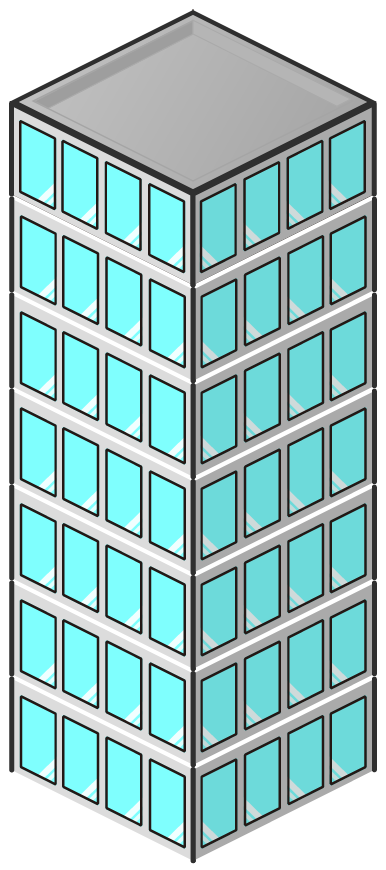
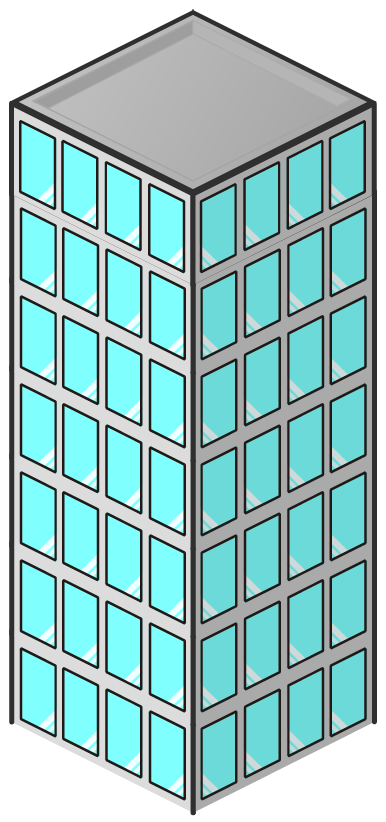
roadmap: フロア継ぎ目の縮小表示時の隙間を修正(積み上げピッチ-8px)
ユーザー指摘：フル解像度では隙間なく見えるのに、実機の縮小表示サイズだと
継ぎ目に白っぽい線が出る。原因を検証：
- フル解像度のalphaチャンネルには実際の透過ギャップは存在しない
  （境界のstroke含め完全不透明であることをスクリプトで確認）
- 870px高の画像を実表示サイズ相当(幅200px)までLANCZOS縮小してみたところ、
  継ぎ目の濃い輪郭線が縮小補間で周囲の明るい色と混ざって薄まり、
  白い隙間線のように見える現象を再現できた

対策：積み上げピッチをflat band実測値からさらに8px多く重ねる
(plain 96→88, brick 95→87, bigwindow 96→88)。縮小シミュレーションで
3種とも継ぎ目が視認できなくなることを確認。フル解像度でも窓が
潰れる等の歪みは見られない。

diff --git a/src/components/roadmap/roadmap-map.tsx b/src/components/roadmap/roadmap-map.tsx
@@ -57,9 +57,15 @@ const DIAMOND_POINTS = "50,0 100,25 50,50 0,25";
 // 2026-09-18更新：旧コンクリ仮素材(building_stack2_concrete_test.png)から、
 // 本番のビル/レンガ/窓デカ3種に仮差し替え。中段(body)をN-1枚+最上段(roof)1枚を
 // Pillowでスクリプト合成したスタック画像（パーツリストAの「フロア数の上限は6〜8階」
-// を試すため、窓デカ型だけ7階まで積んでみている）。積み上げpiddチ(floor間の垂直
+// を試すため、窓デカ型だけ7階まで積んでみている）。積み上げピッチ(floor間の垂直
 // オフセット)は各body画像の「幅が最大になっている帯(flat band)」の高さを
-// alphaチャンネルから実測して使用（3種とも95〜96pxでほぼ共通）。
+// alphaチャンネルから実測（3種とも95〜96px）した上で、さらに-8pxのマージンを
+// 引いている。理由：実測値どおりのピッチだと、フル解像度では隙間なく繋がって
+// 見えるのに、実際の表示サイズまで縮小(next/imageが行う一般的なLANCZOS等の
+// 縮小補間)すると、継ぎ目の濃い輪郭線が縮小時に周囲の明るい色と混ざって薄まり、
+// 白っぽい隙間線のように見えてしまう不具合をユーザーが実機確認で発見。
+// 縮小後も隙間に見えないよう、意図的に8px分多く重ねてある（縮小シミュレーションで
+// 確認済み。歪みが気になるレベルの重なりではない）。
 // groundAnchorTopPercentは最下段bodyの接地点(alpha最下段行)を実測して算出。
 // まだ「どのタイプをどのStageに割り当てるか」の恒久ルールは無い(仕様書の
 // 2026-09-17改訂参照、型とStageの固定対応は決めない方針)ため、この3件も
@@ -71,22 +77,22 @@ const TEST_BUILDING_IMAGES: Partial<
   1: {
     src: "/roadmap/buildings/building_stack_plain_2f.png",
     width: 386,
-    height: 390,
-    groundAnchorTopPercent: 98.21,
+    height: 382,
+    groundAnchorTopPercent: 98.17,
   },
   // レンガ型・3階建て
   2: {
     src: "/roadmap/buildings/building_stack_brick_3f.png",
     width: 386,
-    height: 484,
-    groundAnchorTopPercent: 98.55,
+    height: 468,
+    groundAnchorTopPercent: 98.5,
   },
   // 窓デカ型・7階建て
   3: {
     src: "/roadmap/buildings/building_stack_bigwindow_7f.png",
     width: 386,
-    height: 870,
-    groundAnchorTopPercent: 99.2,
+    height: 822,
+    groundAnchorTopPercent: 99.15,
   },
 };
 
